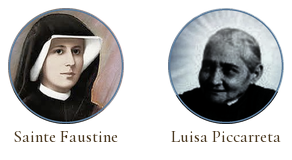
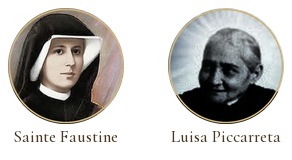
Diptyque doré à l'accueil et à la connexion, libellés Miséricorde et Divine Volonté
- Diptyque régénéré avec la bordure dorée #c9b074 (Luisa : luisa_icon.jpg).
- Accueil : diptyque fixe (les deux saintes, quel que soit le corpus) ; dès
  qu'un éclairage est demandé, seul le portrait de la source choisie reste,
  avec son animation au changement de corpus.
- login.html : le diptyque remplace la photo de Luisa.
- Libellés : <title> et name du manifest « Évangile du jour — Miséricorde et
  Divine Volonté » ; short_name et apple-mobile-web-app-title « Évangile » ;
  nouvelle description du manifest.
- Fichier téléchargé : evangile_du_jour_AAAA-MM-JJ.txt (date affichée).
- Versions : styles.css v9, manifest v2, cache du service worker v10
  (diptyque et manifest ajoutés au préchargement).

diff --git a/templates/index.html b/templates/index.html
@@ -3,18 +3,18 @@
 <head>
     <meta charset="UTF-8"/>
     <meta name="viewport" content="width=device-width, initial-scale=1.0"/>
-    <title>Évangile du jour — Livre du Ciel</title>
-    <link rel="stylesheet" href="/static/styles.css?v=8"/>
+    <title>Évangile du jour — Miséricorde et Divine Volonté</title>
+    <link rel="stylesheet" href="/static/styles.css?v=9"/>
     <link rel="stylesheet" href="https://cdn.jsdelivr.net/npm/@tabler/icons-webfont@2.47.0/tabler-icons.min.css"/>
 
     <link rel="apple-touch-icon" sizes="180x180" href="/static/icon-180.png">
     <link rel="icon" type="image/png" sizes="192x192" href="/static/icon-192.png">
     <link rel="icon" type="image/png" sizes="32x32" href="/static/favicon.png">
-    <link rel="manifest" href="/static/manifest.json">
+    <link rel="manifest" href="/static/manifest.json?v=2">
     <meta name="theme-color" content="#c9b074">
     <meta name="apple-mobile-web-app-capable" content="yes">
     <meta name="apple-mobile-web-app-status-bar-style" content="default">
-    <meta name="apple-mobile-web-app-title" content="Évangile LDC">
+    <meta name="apple-mobile-web-app-title" content="Évangile">
     <script>
       if ("serviceWorker" in navigator) {
         window.addEventListener("load", function () {
@@ -26,7 +26,12 @@
 <body class="page-main">
     <main class="container">
 
-        <div class="diptyque" id="diptyque">
+        <!-- Accueil : les deux saintes. Dès qu'un éclairage est demandé, le
+             portrait de la seule source interrogée prend le relais. -->
+        <img id="diptyque-accueil" class="diptyque-accueil" src="/static/diptyque.png?v=1"
+             srcset="/static/diptyque.png?v=1 1x, /static/diptyque@2x.png?v=1 2x"
+             width="292" height="160" alt="Sainte Faustine et Luisa Piccarreta"/>
+        <div class="diptyque diptyque-cache" id="diptyque">
             <span class="portrait" data-source="luisa">
                 <img src="/static/luisa.jpg?v=6" alt="Luisa Piccarreta"/>
             </span>
@@ -354,6 +359,16 @@
             });
         }
 
+        // En-tête : diptyque fixe à l'accueil ; pendant et après l'éclairage,
+        // seul le portrait de la source choisie (animé au changement).
+        const diptyqueAccueil = document.getElementById('diptyque-accueil');
+
+        function afficherPortraitSource() {
+            if (!diptyqueAccueil || diptyqueAccueil.hidden) return;
+            diptyqueAccueil.hidden = true;
+            diptyque.classList.remove('diptyque-cache');
+        }
+
         function basculerVersEvangile() {
             ecranChoix.style.display = 'none';
             ecranEvangile.style.display = '';
@@ -530,6 +545,7 @@
             resultats.style.display = 'none';
             spinner.style.display = 'flex';
             boutonEclairage.disabled = true;
+            afficherPortraitSource();
 
             try {
                 const formData = new FormData();
@@ -610,7 +626,7 @@
             const url = URL.createObjectURL(blob);
             const a = document.createElement('a');
             a.href = url;
-            a.download = 'evangile_ldc.txt';
+            a.download = `evangile_du_jour_${dateInput.value || new Date().toISOString().slice(0, 10)}.txt`;
             a.click();
             URL.revokeObjectURL(url);
         });

diff --git a/templates/login.html b/templates/login.html
@@ -4,16 +4,16 @@
     <meta charset="UTF-8"/>
     <meta name="viewport" content="width=device-width, initial-scale=1.0"/>
     <title>Accès protégé — Évangile du jour</title>
-    <link rel="stylesheet" href="/static/styles.css?v=8"/>
+    <link rel="stylesheet" href="/static/styles.css?v=9"/>
 
     <link rel="apple-touch-icon" sizes="180x180" href="/static/icon-180.png">
     <link rel="icon" type="image/png" sizes="192x192" href="/static/icon-192.png">
     <link rel="icon" type="image/png" sizes="32x32" href="/static/favicon.png">
-    <link rel="manifest" href="/static/manifest.json">
+    <link rel="manifest" href="/static/manifest.json?v=2">
     <meta name="theme-color" content="#c9b074">
     <meta name="apple-mobile-web-app-capable" content="yes">
     <meta name="apple-mobile-web-app-status-bar-style" content="default">
-    <meta name="apple-mobile-web-app-title" content="Évangile LDC">
+    <meta name="apple-mobile-web-app-title" content="Évangile">
     <script>
       if ("serviceWorker" in navigator) {
         window.addEventListener("load", function () {
@@ -24,7 +24,9 @@
 </head>
 <body class="page-login">
     <main class="login-container">
-        <img src="/static/luisa.jpg?v=6" alt="Luisa Piccarreta" class="login-photo"/>
+        <img class="login-diptyque" src="/static/diptyque.png?v=1"
+             srcset="/static/diptyque.png?v=1 1x, /static/diptyque@2x.png?v=1 2x"
+             width="292" height="160" alt="Sainte Faustine et Luisa Piccarreta"/>
         <h1 class="login-title">Accès protégé</h1>
         <p class="login-subtitle">Veuillez saisir le mot de passe pour accéder à l'application.</p>
 

diff --git a/static/styles.css b/static/styles.css
@@ -56,13 +56,12 @@ body {
 
 /* Même portrait que celui du diptyque : vertical, donc plus étroit que
    l'ancienne photo en paysage, pour ne pas occuper tout l'écran de connexion. */
-.login-photo {
-    width: 150px;
-    height: auto;
-    border: 1px solid #c9b074;
-    border-radius: 6px;
-    margin: 0 auto 0.6rem;
+.login-diptyque {
     display: block;
+    width: 292px;
+    max-width: 100%;
+    height: auto;
+    margin: 0 auto 0.6rem;
 }
 
 .login-title {
@@ -155,6 +154,20 @@ body {
 }
 
 /* Diptyque des portraits (Luisa, Sainte Faustine) */
+/* Diptyque fixe de l'accueil (image générée par make_diptyque.py) */
+.diptyque-accueil {
+    display: block;
+    width: 292px;
+    max-width: 100%;
+    height: auto;
+    margin: 0 auto 0.55rem;
+}
+
+.diptyque-accueil[hidden],
+.diptyque.diptyque-cache {
+    display: none;
+}
+
 .diptyque {
     --largeur-portrait: 138px;
     display: flex;

diff --git a/static/sw.js b/static/sw.js
@@ -2,15 +2,17 @@
 // Stratégie : "network-first" sur la navigation, avec repli sur le cache hors-ligne.
 // Les requêtes API (POST) ne sont jamais mises en cache.
 
-const CACHE = "evangile-ldc-v9";
+const CACHE = "evangile-ldc-v10";
 const SHELL = [
   "/",
-  "/static/styles.css?v=8",
+  "/static/styles.css?v=9",
   "/static/luisa.jpg?v=6",
   "/static/faustine.jpg?v=6",
   "/static/icon-192.png",
   "/static/icon-512.png",
-  "/static/manifest.json",
+  "/static/manifest.json?v=2",
+  "/static/diptyque.png?v=1",
+  "/static/diptyque@2x.png?v=1",
 ];
 
 self.addEventListener("install", (event) => {

diff --git a/make_diptyque.py b/make_diptyque.py
@@ -8,7 +8,7 @@ make_diptyque.py — Génère l'image d'accueil : deux médaillons côte à côt
 Les deux portraits reçoivent le même traitement : recadrage carré en buste,
 à la même échelle de visage ; harmonisation de luminosité et de saturation
 (fonctions de `make_portraits.py`) ; découpe ronde lissée ; bordure fine
-gris-bleu (#5a7a99, l'accent bleu de l'application). Le nom de chaque sainte
+dorée (#c9b074, celle des portraits de l'application). Le nom de chaque sainte
 est écrit dessous en Cormorant Garamond, la police des titres de l'app.
 
 Sources :
@@ -40,7 +40,7 @@ MARGE = 8               # marge autour de l'ensemble
 TAILLE_NOM = 17         # corps du nom
 ESPACE_NOM = 7          # entre le médaillon et le nom
 
-BLEU_GRIS = (90, 122, 153, 255)     # #5a7a99
+OR = (201, 176, 116, 255)           # #c9b074
 ENCRE = (74, 56, 32, 255)           # #4a3820, couleur des sous-titres
 
 #: Recadrages carrés (x0, y0, x1, y1), en buste, réglés à l'œil pour que les
@@ -69,7 +69,7 @@ def police(taille):
 
 
 def medaillon(source, boite, diametre, bordure):
-    """Portrait harmonisé, découpé en disque, cerclé de gris-bleu (RGBA)."""
+    """Portrait harmonisé, découpé en disque, cerclé d'or (RGBA)."""
     image = Image.open(os.path.join(RACINE, *source)).convert("RGB").crop(boite)
     grand = diametre * SURECHANTILLONNAGE
     image = harmoniser(image.resize((grand, grand), Image.LANCZOS), en_gris=False)
@@ -82,7 +82,7 @@ def medaillon(source, boite, diametre, bordure):
     trait = round(bordure * SURECHANTILLONNAGE)
     ImageDraw.Draw(disque).ellipse((trait // 2, trait // 2, grand - 1 - trait // 2,
                                     grand - 1 - trait // 2),
-                                   outline=BLEU_GRIS, width=trait)
+                                   outline=OR, width=trait)
     return disque.resize((diametre, diametre), Image.LANCZOS), image
 
 
